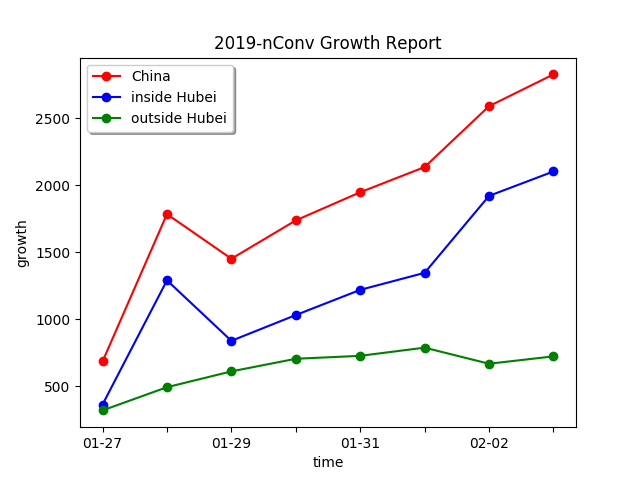
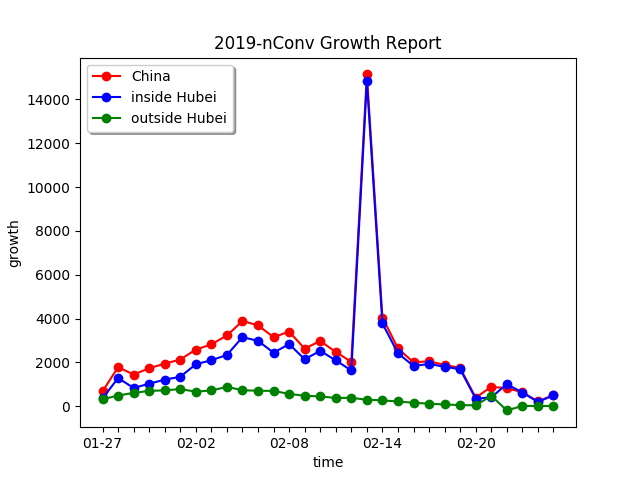
final commit

diff --git a/web/config.js b/web/config.js
@@ -1,1 +1,1 @@
-var config = {"startTime": "2020-01-29 12h", "currentTime": "02-03 15h", "monitorList": [{"name": "全国", "level": "nation", "interval": 12, "lastUpdate": "02-03 12h"}, {"name": "湖北", "level": "province", "interval": 24, "lastUpdate": "02-03 12h"}, {"name": "河南", "level": "province", "interval": 24, "lastUpdate": "02-03 12h"}, {"name": "湖北-武汉", "level": "city", "interval": 24, "lastUpdate": "02-03 12h"}, {"name": "河南-信阳", "level": "city", "interval": 24, "lastUpdate": "02-03 12h"}]}
+var config = {"startTime": "2020-01-29 12h", "currentTime": "02-25 13h", "monitorList": [{"name": "全国", "level": "nation", "interval": 12, "lastUpdate": "02-25 12h"}, {"name": "湖北", "level": "province", "interval": 24, "lastUpdate": "02-25 12h"}, {"name": "河南", "level": "province", "interval": 24, "lastUpdate": "02-25 12h"}, {"name": "湖北-武汉", "level": "city", "interval": 24, "lastUpdate": "02-25 12h"}, {"name": "河南-信阳", "level": "city", "interval": 24, "lastUpdate": "02-25 12h"}]}

diff --git a/spider/plot.py b/spider/plot.py
@@ -49,7 +49,7 @@ def adjustXAxies(xArray):
         times = len(xArray)//maxLabelNum
         return replaceInterval(xArray,times)
 
-def makePlot(x,y,title="national",ignore=['治愈','死亡','疑似']):
+def makePlot(x,y,title="全国",ignore=['治愈','死亡','疑似']):
     if len(x) <= 1:
         return
     plot.ylabel('people')
@@ -59,7 +59,7 @@ def makePlot(x,y,title="national",ignore=['治愈','死亡','疑似']):
             continue
         plot.plot(adjustXAxies(x), list(map(lambda x:x[key],y)), color=colorStyle[key], marker=markerStyle[key], linestyle=lineStyle[key],label=ch2en[key])
     # plot.xticks(range(1,len(x)+1),)
-    plot.title('2019-nConv Report %s'%(title))
+    plot.title('2019-nConv Report')
     # plot.legend(shadow=True,loc="upper left")
     plot.savefig("./image/2019-nConv_report_%s_%s.jpg"%(title,x[-1]))
     plot.close('all')
@@ -116,9 +116,9 @@ def updateAllPlot():
         makePlot(timeList,sumList,fileName)
 
 if __name__ == '__main__':
-    # sumPath = "./spider/data/sum_nation_全国.json"
-    # timePath = "./spider/data/time_nation_全国.json"
-    # sumList,timeList = loadHistory(sumPath,timePath)
-    # makePlot(timeList,sumList)
-    makeGrowthPlot()
+    sumPath = "./spider/data/sum_nation_全国.json"
+    timePath = "./spider/data/time_nation_全国.json"
+    sumList,timeList = loadHistory(sumPath,timePath)
+    makePlot(timeList,sumList)
+    # makeGrowthPlot()
     

diff --git a/README.md b/README.md
@@ -1,8 +1,8 @@
 This repo is made for real-time tracking of virus 2019-nCoV.
 
-Show the report on a [web page](http://47.100.88.239:8080/).
+Show the report on a web page.
 
-![image](https://github.com/1813927768/virus-report/blob/master/web/image/2019-nConv_report_national_01-28%2013h.jpg)
+![image](./virus_report.png)
 
 ## StartUp
 
